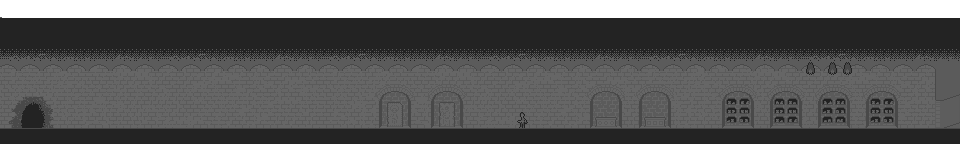
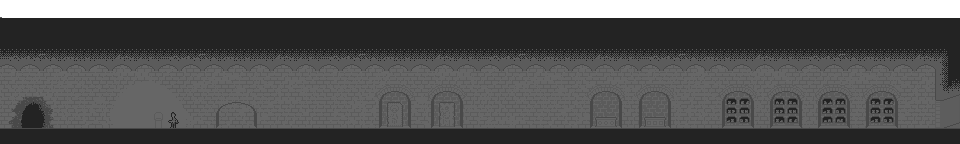
Add bat

diff --git a/src/level2.cc b/src/level2.cc
@@ -5,7 +5,9 @@
 
 Level2::Level2(Resources& resources, Sound& sound) :
   resources_(resources),
-  sound_(sound)
+  sound_(sound),
+  mentioned_intro_(false),
+  spawned_first_bat_(false)
 {
   text_intro_ = new std::string("This used to be a sacred place.");
 }
@@ -36,12 +38,33 @@ void Level2::Initialize(World& world) {
   player->GetSprite()->render_flip = SDL_FLIP_HORIZONTAL;
 
   sound_.PlayMusic(Music::LEVEL_2_LOOP);
+
+  first_bat_ = SpawnBat(world, world.level_width_ - 158);
 }
 
 void Level2::Update(float seconds_elapsed, World& world, StateManager& state_manager) {
   Vector2f player_pos = world.GetPlayer()->position_;
+
+  if(!mentioned_intro_) {
+    mentioned_intro_ = true;
+    world.GetPlayer()->Say(text_intro_, 3);
+  }
+
+  if(!spawned_first_bat_ && player_pos.x <= world.level_width_ - 100) {
+    spawned_first_bat_ = true;
+    first_bat_->SetState(first_bat_->state_starting_);
+  }
+
   if(player_pos.x >= 24 && player_pos.x <= 35 && player_pos.y <= 101) {
     state_manager.PushState(new CreditsState(resources_));
   }
 }
 
+Bat* Level2::SpawnBat(World& world, int x) {
+  Bat* bat = new Bat(resources_, *world.GetPlayer());
+  bat->position_.x = x - 8;
+  bat->position_.y = 67;
+  world.Spawn(*bat);
+
+  return bat;
+}

diff --git a/src/bat.h b/src/bat.h
@@ -1,0 +1,35 @@
+#ifndef BAT_H_
+#define BAT_H_
+
+#include "player.h"
+#include "character.h"
+#include "resources.h"
+#include "bat_state.h"
+#include "bat_state_asleep.h"
+#include "bat_state_flying.h"
+#include "bat_state_starting.h"
+#include "bat_state_attacking.h"
+
+class Bat : public Character {
+  friend class BatStateAsleep;
+  friend class BatStateFlying;
+  friend class BatStateStarting;
+  friend class BatStateAttacking;
+
+  public:
+    Bat(Resources& resources, Player& player);
+    ~Bat();
+    void Update(float seconds_elapsed);
+    void SetState(BatState* state);
+
+    BatStateAsleep* state_asleep_;
+    BatStateFlying* state_flying_;
+    BatStateStarting* state_starting_;
+    BatStateAttacking* state_attacking_;
+  private:
+    BatState* current_state_;
+    Resources& resources_;
+    Player& player_;
+};
+
+#endif // BAT_H_

diff --git a/src/bat.cc b/src/bat.cc
@@ -1,0 +1,37 @@
+#include "bat.h"
+
+Bat::Bat(Resources& resources, Player& player) :
+  resources_(resources),
+  player_(player)
+{
+  health_ = 1;
+
+  hitbox_.x = 1;
+  hitbox_.y = -5;
+  hitbox_.w = 13;
+  hitbox_.h = 7;
+
+  state_asleep_ = new BatStateAsleep();
+  state_flying_ = new BatStateFlying();
+  state_starting_ = new BatStateStarting();
+  state_attacking_ = new BatStateAttacking();
+
+  SetState(state_asleep_);
+}
+
+Bat::~Bat() {
+  delete state_asleep_;
+  delete state_flying_;
+  delete state_starting_;
+  delete state_attacking_;
+}
+
+void Bat::SetState(BatState* state) {
+  current_state_ = state;
+  current_state_->Initialize(*this);
+}
+
+void Bat::Update(float seconds_elapsed) {
+  current_state_->Update(seconds_elapsed, *this);
+}
+

diff --git a/src/resources.cc b/src/resources.cc
@@ -51,6 +51,18 @@ SDL_Texture *Resources::LoadTexture(Texture texture) {
     case Texture::ZOMBIE_DEAD:
       tex = LoadTexture("assets/zombie_dead.png");
       break;
+    case Texture::BAT_ASLEEP:
+      tex = LoadTexture("assets/bat_asleep.png");
+      break;
+    case Texture::BAT_FLYING:
+      tex = LoadTexture("assets/bat_flying.png");
+      break;
+    case Texture::BAT_STARTING:
+      tex = LoadTexture("assets/bat_starting.png");
+      break;
+    case Texture::BAT_ATTACKING:
+      tex = LoadTexture("assets/bat_attacking.png");
+      break;
     case Texture::LEVEL_1:
       tex = LoadTexture("assets/lvl1.png");
       break;

diff --git a/src/bat_state_starting.cc b/src/bat_state_starting.cc
@@ -1,0 +1,23 @@
+#include "bat_state_starting.h"
+
+#include "bat.h"
+
+void BatStateStarting::Initialize(Bat& bat) {
+  state_duration_ = 0;
+  bat.animation_->Reset();
+  bat.animation_->texture = bat.resources_.GetTexture(Texture::BAT_STARTING);
+  bat.animation_->frame_duration = 0.1;
+  bat.animation_->num_frames = 3;
+}
+
+void BatStateStarting::Update(float seconds_elapsed, Bat& bat) {
+  bat.animation_->Update(seconds_elapsed);
+
+  bat.position_.y -= 30 * seconds_elapsed;
+  bat.position_.x += 10 * seconds_elapsed;
+
+  state_duration_ += seconds_elapsed;
+  if(state_duration_ >= 0.5) {
+    bat.SetState(bat.state_flying_);
+  }
+}

diff --git a/src/play_state.cc b/src/play_state.cc
@@ -35,7 +35,7 @@ PlayState::~PlayState() {
 void PlayState::LoadNextLevel(StateManager& state_manager) {
   player_velocity_x_ = 0;
 
-  int level_number = 0;
+  int level_number = 1;
   if(level_ != nullptr) {
     level_number = level_->GetNumber();
   }
@@ -169,9 +169,9 @@ void PlayState::Draw(Graphics& graphics) {
     RenderCharacter(graphics, *character, camera_);
 
 #ifdef DEBUG
-    if(collisions_->DoCollide(player_, character)) {
+    //if(collisions_->DoCollide(player_, character)) {
       RenderRect(graphics, character->hitbox_, character->position_, camera_);
-    }
+    //}
 #endif // DEBUG
   }
 

diff --git a/src/bat_state_attacking.cc b/src/bat_state_attacking.cc
@@ -1,0 +1,24 @@
+#include "bat_state_attacking.h"
+
+#include "bat.h"
+
+void BatStateAttacking::Initialize(Bat& bat) {
+  state_duration_ = 0;
+  dealt_damage_ = false;
+  bat.animation_->Reset();
+  bat.animation_->texture = bat.resources_.GetTexture(Texture::BAT_ATTACKING);
+  bat.animation_->frame_duration = 0.3;
+  bat.animation_->num_frames = 1;
+}
+
+void BatStateAttacking::Update(float seconds_elapsed, Bat& bat) {
+  bat.animation_->Update(seconds_elapsed);
+
+  state_duration_ += seconds_elapsed;
+
+  if(!dealt_damage_) {
+    // TODO: Check collision
+
+    dealt_damage_ = true;
+  }
+}

diff --git a/src/level2.h b/src/level2.h
@@ -4,12 +4,12 @@
 #include <vector>
 #include <string>
 
+#include "bat.h"
 #include "level.h"
 #include "resources.h"
 #include "sound.h"
 #include "sprite.h"
 #include "world.h"
-#include "zombie.h"
 
 class Level2 : public Level {
   public:
@@ -27,6 +27,12 @@ class Level2 : public Level {
     Sound& sound_;
 
     std::string* text_intro_;
+    bool mentioned_intro_;
+
+    Bat* first_bat_;
+    bool spawned_first_bat_;
+
+    Bat* SpawnBat(World& world, int x);
 };
 
 #endif // LEVEL2_H_

diff --git a/src/bat_state_flying.cc b/src/bat_state_flying.cc
@@ -1,0 +1,16 @@
+#include "bat_state_flying.h"
+
+#include "bat.h"
+
+void BatStateFlying::Initialize(Bat& bat) {
+  bat.animation_->Reset();
+  bat.animation_->texture = bat.resources_.GetTexture(Texture::BAT_FLYING);
+  bat.animation_->frame_duration = 0.07;
+  bat.animation_->num_frames = 4;
+}
+
+void BatStateFlying::Update(float seconds_elapsed, Bat& bat) {
+  bat.animation_->Update(seconds_elapsed);
+
+  bat.position_.x += 40 * seconds_elapsed;
+}

diff --git a/src/bat_state_attacking.h b/src/bat_state_attacking.h
@@ -1,0 +1,15 @@
+#ifndef BAT_STATE_ATTACKING_H_
+#define BAT_STATE_ATTACKING_H_
+
+#include "bat_state.h"
+
+class BatStateAttacking : public BatState {
+  public:
+    void Initialize(Bat& bat);
+    void Update(float seconds_elapsed, Bat& bat);
+  private:
+    float state_duration_;
+    bool dealt_damage_;
+};
+
+#endif // BAT_STATE_ATTACKING_H_

diff --git a/src/bat_state_asleep.cc b/src/bat_state_asleep.cc
@@ -1,0 +1,12 @@
+#include "bat_state_asleep.h"
+
+#include "bat.h"
+
+void BatStateAsleep::Initialize(Bat& bat) {
+  bat.animation_->Reset();
+  bat.animation_->texture = bat.resources_.GetTexture(Texture::BAT_ASLEEP);
+}
+
+void BatStateAsleep::Update(float seconds_elapsed, Bat& bat) {
+  // A sleeping bat does nothing.
+}

diff --git a/src/bat_state_starting.h b/src/bat_state_starting.h
@@ -1,0 +1,14 @@
+#ifndef BAT_STATE_STARTING_H_
+#define BAT_STATE_STARTING_H_
+
+#include "bat_state.h"
+
+class BatStateStarting : public BatState {
+  public:
+    void Initialize(Bat& bat);
+    void Update(float seconds_elapsed, Bat& bat);
+  private:
+    float state_duration_;
+};
+
+#endif // BAT_STATE_STARTING_H_
